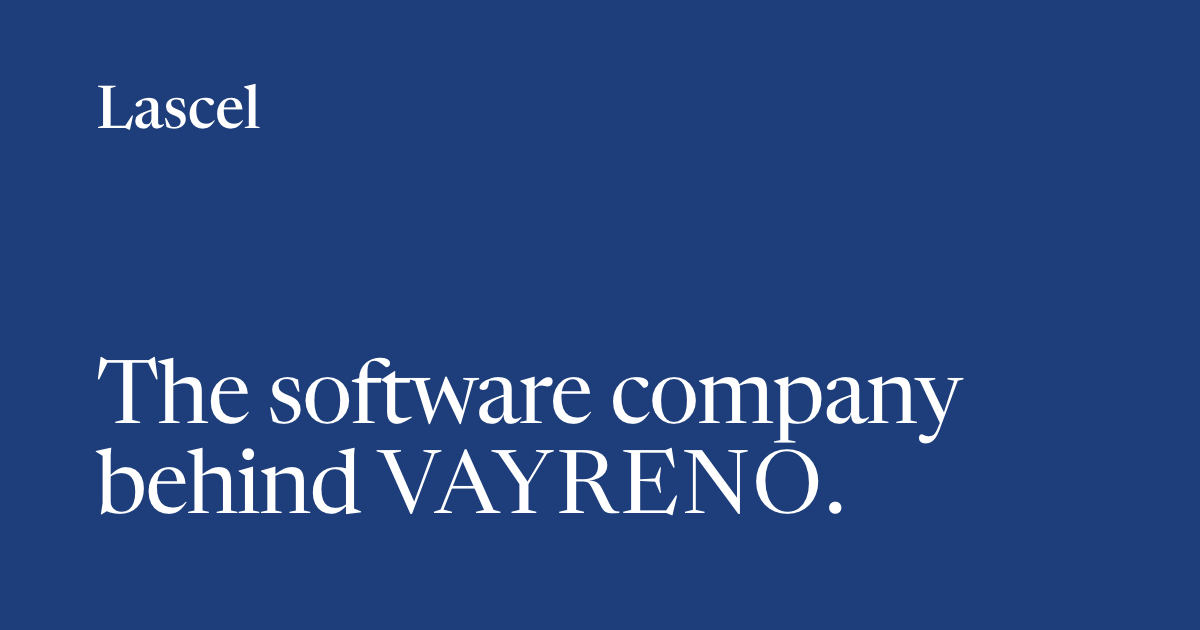
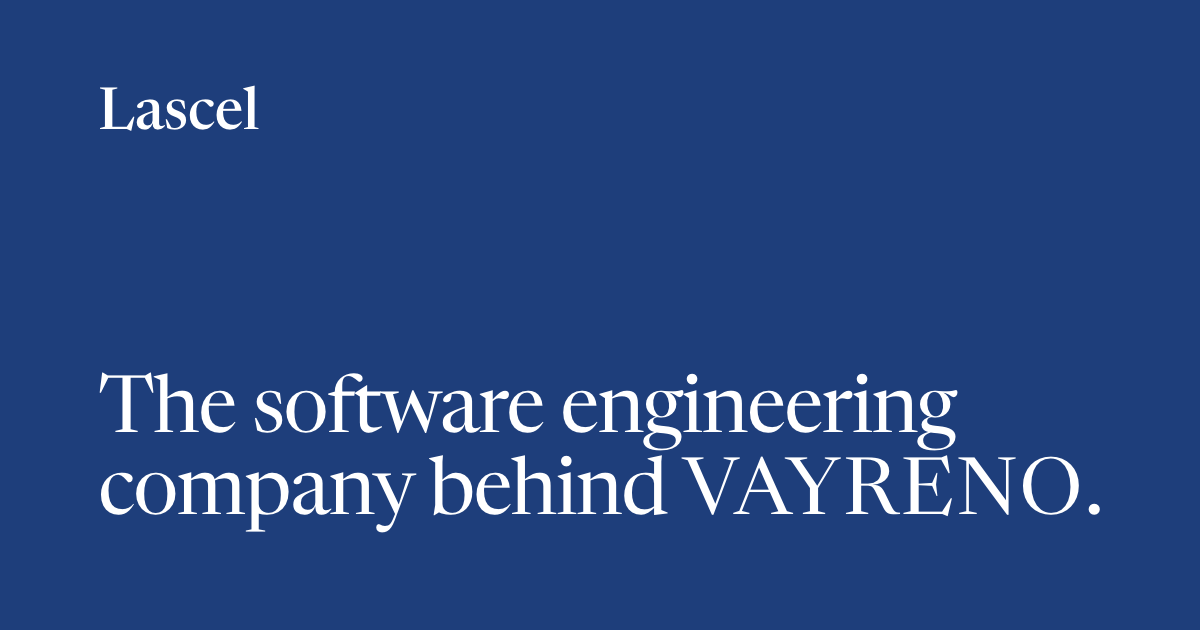
Describe Lascel as a software engineering company that builds and runs VAYRENO, with more products planned.
The owner asked for this wording on 20 Nov 2026. The headline, the opening
paragraph, the page title, the description, the privacy notice and the share
picture now say so. Future products are mentioned as planned and nothing more.

Claude-Session: https://claude.ai/code/session_015ZrQCtHu7f4e2oRFsmFjdC

Changed region(s): [[0.0617, 0.573, 0.925, 0.8444], [0.0925, 0.1508, 0.2158, 0.2111]]

diff --git a/app/lib/metadata.ts b/app/lib/metadata.ts
@@ -1,7 +1,7 @@
 import type { Metadata } from "next";
 import { site, siteDescription } from "@/site.config";
 
-export const homeTitle = `${site.name} | The software company behind ${site.vayreno.name}`;
+export const homeTitle = `${site.name} | The software engineering company behind ${site.vayreno.name}`;
 
 /** The picture shown when a link to the site is shared: public/og.png, 1200 by 630 pixels. */
 export const shareImage = {
@@ -9,7 +9,7 @@ export const shareImage = {
   width: 1200,
   height: 630,
   type: "image/png",
-  alt: `${site.name}, the software company behind ${site.vayreno.name}.`,
+  alt: `${site.name}, the software engineering company behind ${site.vayreno.name}.`,
 };
 
 type Page = {

diff --git a/app/page.tsx b/app/page.tsx
@@ -48,11 +48,11 @@ export default function Home() {
       <div className="wrap">
         <section className="hero">
           <h1>
-            The software company behind <Vayreno />.
+            The software engineering company behind <Vayreno />.
           </h1>
           <p className="lede">
-            {site.name} is a small, new company based in {site.location}. <Vayreno /> is the one
-            product we make.
+            {site.name} is a small, new software engineering company based in {site.location}. We
+            build and run <Vayreno />, our first product, and we plan to build more.
           </p>
         </section>
 

diff --git a/app/privacy/page.tsx b/app/privacy/page.tsx
@@ -55,7 +55,7 @@ export default function Privacy() {
       <div className="prose">
         <h2>Who we are</h2>
         <p>
-          This website is run by {site.name}, a small software company in {site.location}.{" "}
+          This website is run by {site.name}, a small software engineering company in {site.location}.{" "}
           {site.contactEmail ? (
             <>
               You can contact us at <EmailLink email={site.contactEmail} />.

diff --git a/site.config.ts b/site.config.ts
@@ -37,4 +37,4 @@ export const site = {
 };
 
 export const siteDescription =
-  "Lascel is a small software company in Birmingham. It is the company behind VAYRENO, which handles patient enquiries and bookings for UK private clinics.";
+  "Lascel is a small software engineering company in Birmingham. It builds and runs VAYRENO, which handles patient enquiries and bookings for UK private clinics. More products are planned.";

diff --git a/AGENTS.md b/AGENTS.md
@@ -12,6 +12,6 @@ This block is written and re-added by `next dev` — verify at `node_modules/nex
 
 - The site is a static export (`output: "export"` in `next.config.ts`) hosted on Vercel as plain files. Do not add anything that needs a server: API routes, Server Actions, proxy, rewrites, redirects, headers, cookies or the default image loader. Route handlers need `export const dynamic = "force-static"`.
 - Settings the owner changes (contact address, registered company details) live in `site.config.ts`. Never invent a registered name, company number, address, email or phone number.
-- Statements about VAYRENO must use VAYRENO's approved wording and pass its claims register. No other company or product is named.
+- Statements about VAYRENO must use VAYRENO's approved wording and pass its claims register. No other company or product is named. The site may say that more products are planned, and nothing more about them: no name, description or date until the owner supplies the wording.
 - The privacy page states that the site sets no cookies, runs no analytics, loads nothing from third parties and has no forms. Keep that true, or change the page in the same commit.
 - Before handing work back: `npm run lint`, `npm run typecheck` and `npm run build`, then `npm run preview` to check `out/`.

diff --git a/README.md b/README.md
@@ -1,6 +1,6 @@
 # Lascel
 
-The website of Lascel, the software company behind [VAYRENO](https://vayreno.co.uk). It is published at https://www.lascel.com.
+The website of Lascel, the software engineering company that builds and runs [VAYRENO](https://vayreno.co.uk). It is published at https://www.lascel.com.
 
 The site is two pages and a 404 page:
 
